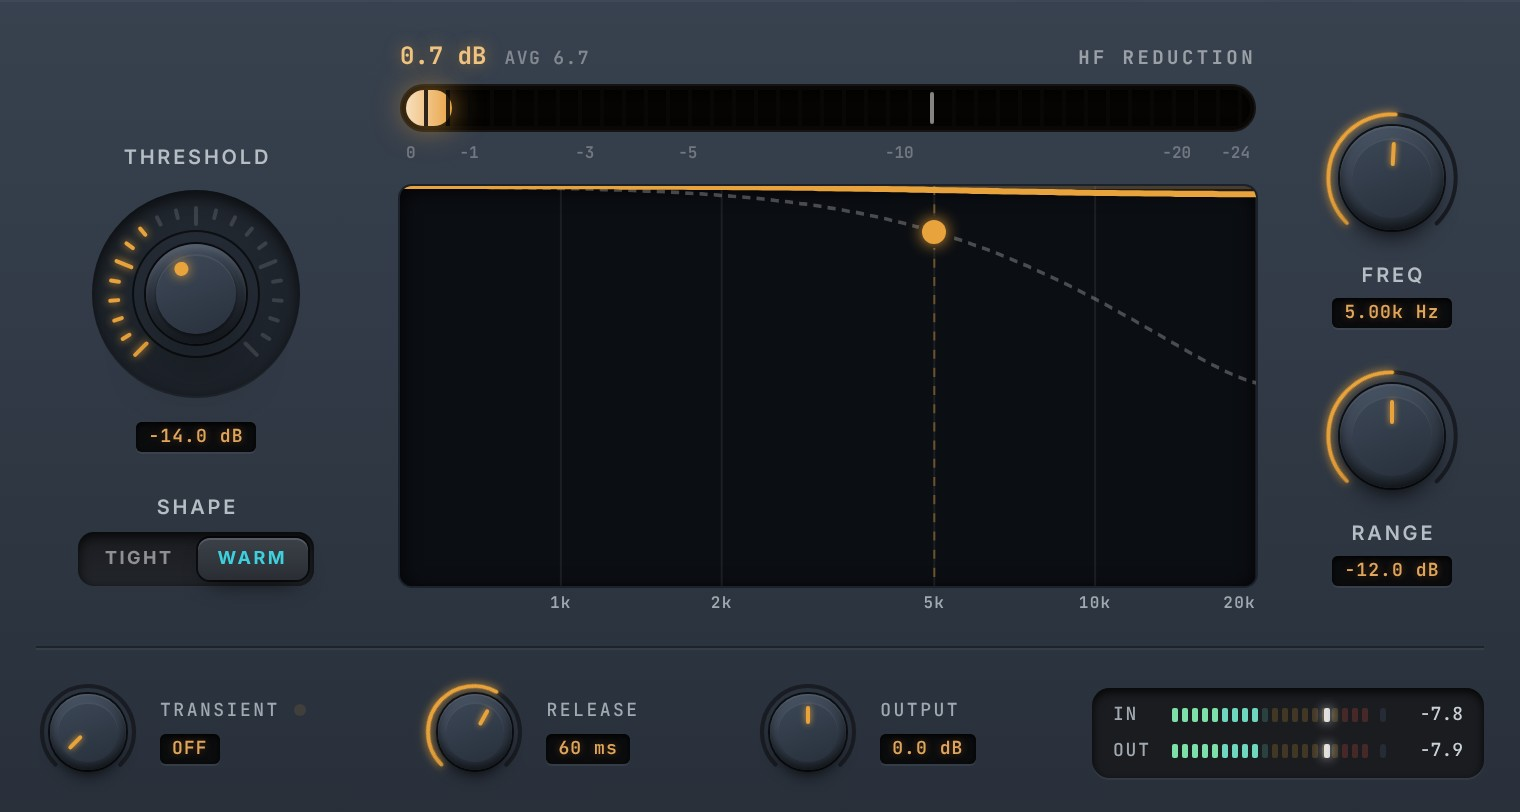
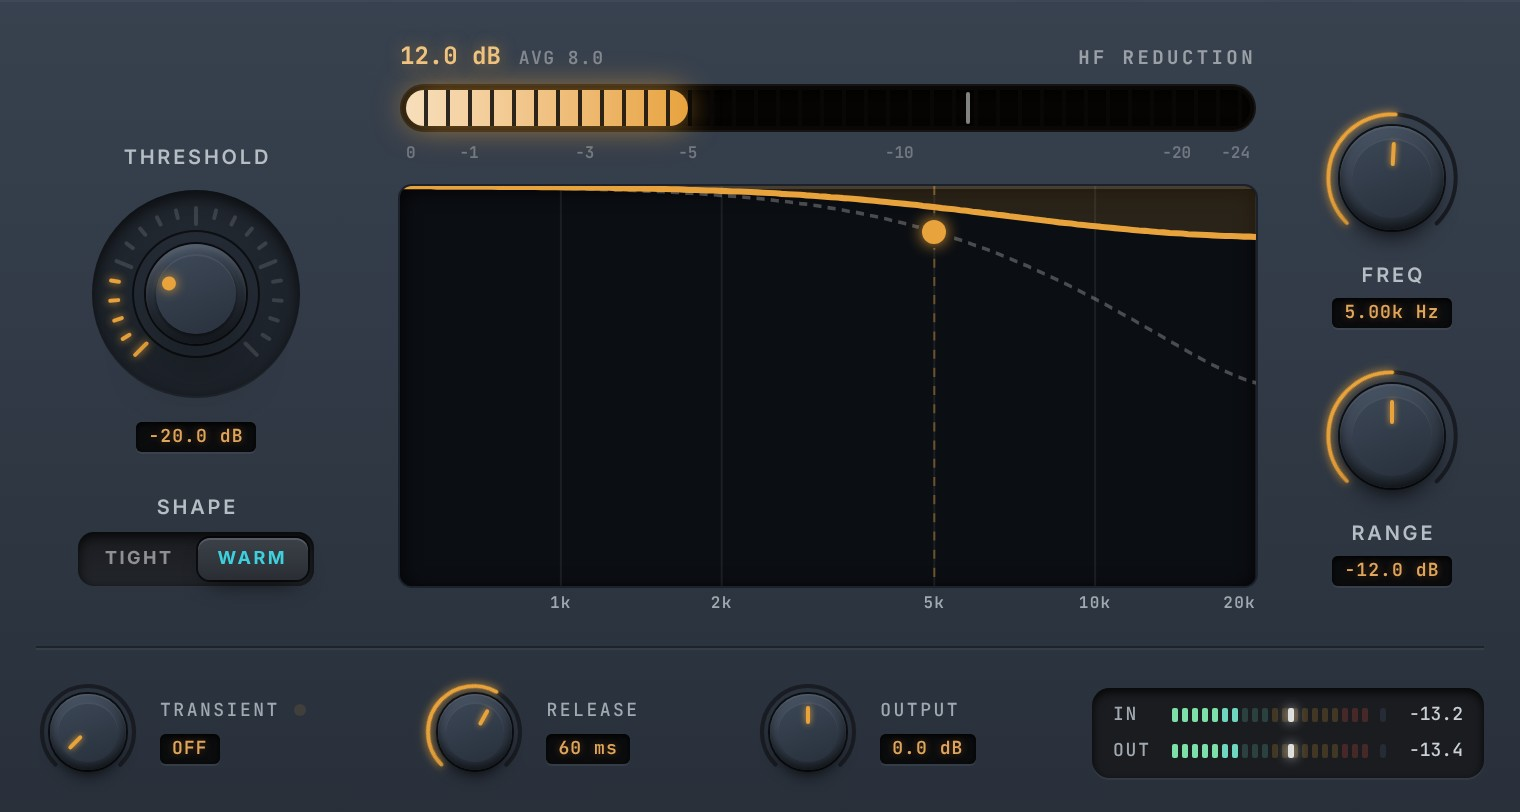
Help shots: HF Limiter caught mid-cut, Spectrum Analyzer playing
The analyzer has no Preview, so it now runs the editor's transport (judged
by its advancing clock) and waits for a live peak; the HF Limiter's pictures
wait for a deep cut and are retaken when it lets go before capture.

Claude-Session: https://claude.ai/code/session_019XGBqqrxvR3o7SmUw3cU3T

diff --git a/CLAUDE.md b/CLAUDE.md
@@ -324,7 +324,7 @@ These apply only to the `acx_audiobook` preset:
   - The panel: POP and BURST reduction bars, the De-Esser's activity scope (`legend` prop: amber POP, lavender BURST — the kernel writes the ring's plosive mark on a burst cut, its input peak delayed to line up), POPS / BURSTS event counters with RESET, DELTA, three factory presets (Default, Pops Only, Close Mic — the last two reasoned, not auditioned). ⚠ Every threshold and Sensitivity line is reasoned from synthetic pops on synthetic voice; the default POP catches a 45 Hz thump of ~0.3 peak on a −18 dBFS-RMS vowel, ~0.1 at Sensitivity 100.
 - **Noise Reduction** (`noiseReductionParams.js` — shared with the server —, `useNoiseReduction.js`, `NoiseReductionModal.vue`, `api/noiseReduction.js`; server `pipeline/spotNoiseReduce.js`) — DF3 / RNNoise / Both on the selection, shown as the Clean / Deep Clean passes. Settings: the two pass switches, Clean's **Max reduction** (`atten_lim_db` 3–48 dB, 48 = uncapped, default 18 = the chain's heavy tier), RNNoise **Protect consonants** (the ACX preset's Silero VAD gate, threshold 0.7 / 1 ms / 2 frames; one mask from the mono mixdown shared by every channel), **Mix**. ⚠ It does NOT call the `noiseReduce` stage: that stage picks the cap from a noise-floor tier, may skip itself, and peak-renormalises afterwards — a spot edit wants the user's cap and the level left exactly as the model returned it. Channels are denoised one at a time (RNNoise is mono-only), the result resampled back to the upload's rate and length-matched. Not chainable (no live node) and one copy only. Plan feature `noiseReduction` (`offline: true`): Pro only, no free preview, refused by the server at any length. Not auditioned on real material in this repo's sandbox (no torch); the plumbing is tested with stub models (`server/test/spotNoiseReduce.test.js`)
 - **Phone support** (November 2026, not a mobile redesign; emulated touch only, not yet tried on real devices): the waveform, overview and scrollbar take POINTER events — a finger taps to seek, drags to select / adjust an edge, long-presses for the edit menu and pinches to zoom (`src/audio/touchGestures.js`); nothing commits on touch DOWN, so a pinch or long press never clears the selection it is meant to act on. ⚠ Lifting a long press sends a ghost mousedown + click to whatever is under the finger — the menu opens there — so the waveform swallows the next click; without it lifting ran Split. A `compact:` Tailwind variant (`main.css`: max-height 520px OR max-width 640px; scoped CSS repeats the query) trims the chrome so a 390 px tall landscape phone gets a 148 px waveform instead of 49. On the same viewport FloatingWindow becomes a full-screen SHEET (`src/ui/windowSheet.js`): no drag or resize, the FACEPLATE alone scaled with CSS `zoom` to fit the width (floor 0.45), header and footer full size. Below 640 px wide the rail is a bottom sheet and a dismissible rotate hint shows. Any new drag control needs `touch-action: none` or a finger scrolls the sheet instead. `npm run smoke` drives a touch phone pass.
-- **Effect help pages** (November 2026): each plugin window's `?` opens `/help/<slug>/` in a NEW TAB — the slug is the PRODUCT name (`la-vintage-2a`, `helpSlug`), never the old window id; a rename keeps the old URL working through `oldSlugs` on its `HELP_META` entry (the build writes a copy there too: `reso-soothe`, `phatss`) (it was an overlay inside the window, cramped and different in every window size). A second Vite entry (`help/index.html` → `src/help/`) that imports only `src/content/help/` — never the editor; `/help/` is an index by category. The build writes a copy of the entry at `help/<id>/index.html` per published page, so no host rewrite is needed; dev and preview rewrite the same paths. Pages follow the Waves manuals' layout (owner, November 2026): INTRO (`intro`, 1–3 paragraphs: what it is, what it is modelled on, what it is for), QUICK START (`quickStart`), then INTERFACE AND CONTROLS — the whole window as a picture, then per control a cropped picture, description, `details`, `range` and `default`. **TOUR** (November 2026, trialled on LA Vintage 2A, then ROLLED OUT): every page whose faceplate carries at least `MIN_TOUR_SPOTS` (3) documented controls (`helpTour` in `src/content/help/tour.js`; Peak Normalize and Effect Chain have one each and keep the window picture, pinned by a test) shows the marketing pages' interactive tour (`src/components/tour/PanelTour.vue`, now shared — it imports nothing, so the help bundle stays editor-free) over the WHOLE WINDOW, header and footer included (owner, November 2026: DELTA is how you check the De-Esser, Reso Tame and Plosive Tamer, and pages tell the reader to use ON / BYPASS — the marketing pages keep the faceplate alone; `tourImage`), in place of the window picture; the window's own controls (FloatingWindow `data-help` ids `delta` / `presets` / `bypass` / `preview` / `apply`, plus LA Vintage 2A's and LA Classic 76's PresetMenu) are documented ONCE in `src/content/help/window.js` and merged into every page by `withWindowControls` — header first and footer last in the window's left-to-right order, a page's own entry for the same shot (its DELTA, the Effect Chain's chain ON / BYPASS and Apply) winning, its leading ungrouped controls headed "Panel", a page control in the header's own slot (VoxPressor's surface toggle, `windowHeader: true`) numbered between the presets and DELTA, and only controls its screenshot shows; ABOVE THE FOLD right after the summary (owner, November 2026: title → summary → tour + caption → Intro → Quick start → Interface and controls → Worth knowing; `eager` loads its picture at once), without its side list; each control with a box on the face is numbered, its entry carries the same number (click = light it on the faceplate and scroll up), and the caption's "Full description ↓" jumps to the entry. Crops and the full reference stay. **Tour usability rules** (November 2026, `PanelTour.vue` header, geometry in `tourGeometry.js`, tested): the caption changes ONLY on a click / tap / key and hover just brightens the outline (owner, November 2026: pointing first selected, so moving down to the caption selected whatever lay on the way, and a hover preview of the caption still changed the text under the reader's eyes); "Full description ↓" sits on its own line, and the entry it jumps to holds an amber block + ring ~1.4 s then fades (`:target`, replayed on a second click); every hotspot answers over at least 32 px (44 on touch / ≤ 640 px), grown only halfway into the gap to a neighbour (`hitBoxes`; the outline still draws the real box); the caption is as tall as its longest entry; one Tab stop with arrows / Home / End; screen readers hear the selection only (hidden live region); on phones the numbered list shows even where `list` is off. A control's box is the visible union of what PAINTS inside its `data-help` element, clipped by `overflow` ancestors (`scripts/lib/controlBox.mjs`; the plain union took in the VU meter's clipped lamp glow, 349 × 223 for a 292 × 172 meter, and the HF Emph knob's empty 80 × 80 layout box); `npm run help:shots -- --rebox [<id>…]` re-measures the boxes (while Preview plays, as the pictures were taken) and re-cuts the crops from the panel.jpg on disk without re-shooting, recording window controls the page has not got yet; a box that moved KEEPS its old box and crop with a warning rather than refusing the page (both modes also record the window's corner `radius`, which the help page rounds panel.jpg by — the picture is a rectangle and its corners held the editor's cyan waveform behind the window) (VoxPressor's readout and PHATaSS's speed drum measure differently with the generated probe and keep their old boxes). Pictures come from `npm run help:shots [-- <id>…]` (Playwright on the dev server, benches hidden via `data-bench`): it crops each control's `data-help="<shot>"` element on the panel into `public/help/shots/<id>/` and writes `src/content/help/shots/<id>.json`; re-run it for an effect whose panel changed. Shots are LIVE (owner, November 2026: idle panels read as dead): each window is shot while its own Preview plays the clip through it, looped, so meters, scopes and reduction displays are lit — the owner's clips in `scripts/help-shots-audio/` (`voice.wav`, `drums.wav` for PHATaSS and Cambridge Inflator; gitignored, for screenshots ONLY, never the marketing pages' Hear it audio), the generated probe when absent. Effects idle at their default get shot settings first (`SHOT_SETTINGS`: PHATaSS and EQ from their marketing samples, Reso Tame's threshold at 13 so the Resonance view shows cuts, the Hi-Freq Limiter at 5 kHz / −14 dB so its reduction meter is engaged); VoxPressor plays 10 s so its measurement lands, and Hum Remover presses Analyse first. The manifests are written after the browser closes — a file changing under `src/` made the dev server reload the editor mid-run. The test fails on a `shot` no panel carries. Titles / categories / `release: 'dev'` live in `HELP_META` (the registry imports every faceplate, so the page cannot read it) and `test/ui/helpContent.test.js` checks them against `registry.js`; dev-only effects are never LISTED (index / sidebar) in any build and get no page or screenshots in production; a dev build still serves their page so the `?` works.
+- **Effect help pages** (November 2026): each plugin window's `?` opens `/help/<slug>/` in a NEW TAB — the slug is the PRODUCT name (`la-vintage-2a`, `helpSlug`), never the old window id; a rename keeps the old URL working through `oldSlugs` on its `HELP_META` entry (the build writes a copy there too: `reso-soothe`, `phatss`) (it was an overlay inside the window, cramped and different in every window size). A second Vite entry (`help/index.html` → `src/help/`) that imports only `src/content/help/` — never the editor; `/help/` is an index by category. The build writes a copy of the entry at `help/<id>/index.html` per published page, so no host rewrite is needed; dev and preview rewrite the same paths. Pages follow the Waves manuals' layout (owner, November 2026): INTRO (`intro`, 1–3 paragraphs: what it is, what it is modelled on, what it is for), QUICK START (`quickStart`), then INTERFACE AND CONTROLS — the whole window as a picture, then per control a cropped picture, description, `details`, `range` and `default`. **TOUR** (November 2026, trialled on LA Vintage 2A, then ROLLED OUT): every page whose faceplate carries at least `MIN_TOUR_SPOTS` (3) documented controls (`helpTour` in `src/content/help/tour.js`; Peak Normalize and Effect Chain have one each and keep the window picture, pinned by a test) shows the marketing pages' interactive tour (`src/components/tour/PanelTour.vue`, now shared — it imports nothing, so the help bundle stays editor-free) over the WHOLE WINDOW, header and footer included (owner, November 2026: DELTA is how you check the De-Esser, Reso Tame and Plosive Tamer, and pages tell the reader to use ON / BYPASS — the marketing pages keep the faceplate alone; `tourImage`), in place of the window picture; the window's own controls (FloatingWindow `data-help` ids `delta` / `presets` / `bypass` / `preview` / `apply`, plus LA Vintage 2A's and LA Classic 76's PresetMenu) are documented ONCE in `src/content/help/window.js` and merged into every page by `withWindowControls` — header first and footer last in the window's left-to-right order, a page's own entry for the same shot (its DELTA, the Effect Chain's chain ON / BYPASS and Apply) winning, its leading ungrouped controls headed "Panel", a page control in the header's own slot (VoxPressor's surface toggle, `windowHeader: true`) numbered between the presets and DELTA, and only controls its screenshot shows; ABOVE THE FOLD right after the summary (owner, November 2026: title → summary → tour + caption → Intro → Quick start → Interface and controls → Worth knowing; `eager` loads its picture at once), without its side list; each control with a box on the face is numbered, its entry carries the same number (click = light it on the faceplate and scroll up), and the caption's "Full description ↓" jumps to the entry. Crops and the full reference stay. **Tour usability rules** (November 2026, `PanelTour.vue` header, geometry in `tourGeometry.js`, tested): the caption changes ONLY on a click / tap / key and hover just brightens the outline (owner, November 2026: pointing first selected, so moving down to the caption selected whatever lay on the way, and a hover preview of the caption still changed the text under the reader's eyes); "Full description ↓" sits on its own line, and the entry it jumps to holds an amber block + ring ~1.4 s then fades (`:target`, replayed on a second click); every hotspot answers over at least 32 px (44 on touch / ≤ 640 px), grown only halfway into the gap to a neighbour (`hitBoxes`; the outline still draws the real box); the caption is as tall as its longest entry; one Tab stop with arrows / Home / End; screen readers hear the selection only (hidden live region); on phones the numbered list shows even where `list` is off. A control's box is the visible union of what PAINTS inside its `data-help` element, clipped by `overflow` ancestors (`scripts/lib/controlBox.mjs`; the plain union took in the VU meter's clipped lamp glow, 349 × 223 for a 292 × 172 meter, and the HF Emph knob's empty 80 × 80 layout box); `npm run help:shots -- --rebox [<id>…]` re-measures the boxes (while Preview plays, as the pictures were taken) and re-cuts the crops from the panel.jpg on disk without re-shooting, recording window controls the page has not got yet; a box that moved KEEPS its old box and crop with a warning rather than refusing the page (both modes also record the window's corner `radius`, which the help page rounds panel.jpg by — the picture is a rectangle and its corners held the editor's cyan waveform behind the window) (VoxPressor's readout and PHATaSS's speed drum measure differently with the generated probe and keep their old boxes). Pictures come from `npm run help:shots [-- <id>…]` (Playwright on the dev server, benches hidden via `data-bench`): it crops each control's `data-help="<shot>"` element on the panel into `public/help/shots/<id>/` and writes `src/content/help/shots/<id>.json`; re-run it for an effect whose panel changed. Shots are LIVE (owner, November 2026: idle panels read as dead): each window is shot while its own Preview plays the clip through it, looped, so meters, scopes and reduction displays are lit — the owner's clips in `scripts/help-shots-audio/` (`voice.wav`, `drums.wav` for PHATaSS and Cambridge Inflator; gitignored, for screenshots ONLY, never the marketing pages' Hear it audio), the generated probe when absent. Effects idle at their default get shot settings first (`SHOT_SETTINGS`: PHATaSS and EQ from their marketing samples, Reso Tame's threshold at 13 so the Resonance view shows cuts, the Hi-Freq Limiter at 5 kHz / −20 dB so its curve is cut; `BUSY` holds each of its pictures until its reduction readout shows ≥ 8 dB, retaken when the cut has let go by capture) and a window with no Preview (the Spectrum Analyzer) runs the editor's own transport, judged playing by its advancing clock, its picture waiting for a peak readout over −60 dB; VoxPressor plays 10 s so its measurement lands, and Hum Remover presses Analyse first. The manifests are written after the browser closes — a file changing under `src/` made the dev server reload the editor mid-run. The test fails on a `shot` no panel carries. Titles / categories / `release: 'dev'` live in `HELP_META` (the registry imports every faceplate, so the page cannot read it) and `test/ui/helpContent.test.js` checks them against `registry.js`; dev-only effects are never LISTED (index / sidebar) in any build and get no page or screenshots in production; a dev build still serves their page so the `?` works.
 - **Effect marketing pages** (November 2026, owner; LA Vintage 2A and VoxPressor first, to settle the design, then every production processing effect — the Spectrum Analyzer and Effect Chain process nothing and have none; a dev-only effect, e.g. Saturation Workbench, has its page in dev builds only): `/effects/<slug>/` (moved from `/plugins/`, owner, November 2026), a third Vite entry (`effects/index.html` → `src/marketing/`) built like the help pages, at the same slug, plus per-page <title>, description, Open Graph and schema.org JSON-LD written at build (`SITE_URL` makes canonical / image URLs absolute). Content is data in `src/content/marketing/<id>.js` (sections, owner, November 2026: hero → Hear it → OVERVIEW — a heading of the page's own (`overviewTitle`, not the word "Overview"), `overview` (exactly two paragraphs, the first a brighter lead) over a numbered two-column list of `features` `{ title, text }`, all in ONE centred 960 px block, the heading and both paragraphs centred line by line over the list (owner, November 2026; design 3b's left-edge reading column, `docs/design/marketing/Overview_Options.dc.html`, was tried and read as too weird); the "Why …" cards and "Works well with" were removed; it sat above Hear it until the owner moved the audio first — → the tour → At a glance); the interactive screenshot's hotspots ARE the help entry's controls, placed by the `at` box `npm run help:shots` now records per control. The hero and the tour show the FACEPLATE alone (`face.jpg`, the window's `.win-face`, also written by `help:shots` with its offset in the window; the full window read as a screen grab — selection readout, Preview / Apply, ✕), hotspot boxes mapped onto it by `spotOnFace` (clamped at the edge, dropped when mostly off it). The tour's hotspots, badges, caption number and selected row are AMBER (`--pt-accent` #e8a33d, the editor's selected-thing colour; owner, November 2026 — they were the page's cyan). Tour badges are PLACED (`placeBadges`, November 2026, after the roll-out showed the old corner-or-beside rule covering VoxPressor's titles, the EQ's meter readouts and its ON / S / × chips): each tries beside its box on the left, its top-left corner, then — a tall box — its own empty top-left corner before going above (where panel titles sit), or — a short box — above / below before inside, taking the first spot on the image and clear of every other control and badge; on every help screenshot none falls back (tested); under 640 px only the selected control is outlined. Features are 10–12 items. COPY IS SOUND FIRST (owner, November 2026): headline, lead paragraph and the top of the list sell the character and the outcome; convenience (alignment, auto makeup, guards, lookahead) is one sentence and the bottom of the list. Emulations (LA Vintage 2A, LA Classic 76, Air Boost, Cambridge Inflator) may borrow what is commonly said about the original and promise that kind of outcome, never a replica; the rules are in the index's VOICE block. The A/B player (`ABPlayer.vue`) plays the dry and processed takes in lock-step through two gains (ON / BYPASS is a 25 ms fade, optional level match). The takes come from `npm run marketing:render`: dry sources in `marketing/samples/<slug>/<sample>.wav` (gitignored), rendered through the REAL kernels the way Apply does (alignment, makeup solve / `measureVoxPressor`, latency trimmed — mirror any change to those apply paths there), encoded identically to MP3 so the pair stays aligned. Each page's renderer is its own module, `scripts/marketing-renderers/<id>.mjs`; a page without one (Auto Leveler and Noise Reduction need the server's VAD / neural models) plays no audio and hides Hear it. An OFFLINE effect's hero reads "Included with Pro", not "Preview free". **Try it on this clip** (`useTryOut.js`, `tryOutUrl` / `tryOutFromSearch` in the marketing index): the hero and the player link to `/?try=<slug>&clip=<sample>`; the editor fetches that sample's dry take at load and the empty state offers it, and ONE click imports it, selects all, writes the sample's settings through `writePluginSettings`, opens the effect's window and starts playback — a click because no AudioContext may start before a gesture. The clip is looked up in the page's own sample list, never taken as a URL; the query is stripped once read. "Open the editor" (top bar, bottom panel) is the plain editor. `src/content/help/meta.js` holds the help titles / slugs so the editor can resolve a slug without bundling the help text. ⚠ The clips shipped first are synthetic TTS placeholders, labelled on the page; `test/ui/marketingContent.test.js` pins the links between content, help, screenshots and audio
 - **Toolbar categories** (`src/ui/registry.js`): **Edit · Level · Dynamics · Tone · Fix** (id `clean`) (+ Master in dev). Edit = Clipboard / Arrange (Trim, Split, Silence), in the rail; Level = Peak / Loudness Normalize, plus Fade and Volume (rail views, the one exception to "Level opens windows"); Dynamics = Auto Leveler, compressors, Soft Clipper, Cambridge Inflator; Tone = EQ, Air, Reso Tame (moved from Fix, November 2026), PHATaSS, saturators; Fix = Noise Reduction, De-Esser, HF Limiter, Hum Remover, plosives, with the Spectrum Analyzer last under Analysis — all four open as windows. Split is an Edit operation, not a category. Plugin Chain has `category: null`: its door is the toolbar's Chain button, and the palette still finds it. Category icons are design 1a "Studio objects" (`docs/design/toolbar-icons/`: scissors, fader, compression arrows, bell, wand, dial), their own `cat*` keys in `icons.js` so the operations that share the old glyphs keep them; the Chain button keeps `chain`.
 - **Release gating** (`src/ui/registry.js`): an operation marked `release: 'dev'` is shown under `vite dev` and in builds made with `VITE_DEV_PANELS=1`, and hidden from production — toolbar, rail, command palette and window layer all read the filtered `OPERATIONS`. Categories gate the same way (`release: 'dev'` on a `CATEGORIES` entry): the **Master** toolbar category is dev-only. Hidden today: Scheps Parallel, Tube Saturation, Saturation Workbench, the Sibilance Editor (registry id `clip-gain-deesser`), VoiceRx, Plosive Tamer (and the Modula Kit gallery). Shipping one is deleting its `release` line and the matching entry in `test/ui/releaseGating.test.js`. ⚠ Hidden, not stripped: the component is still in the bundle, only unreachable. The placeholder Noise Reduction and Remove Silence windows (no DSP) were REMOVED; `noise-reduction` is now the real, server-backed plugin (below).
